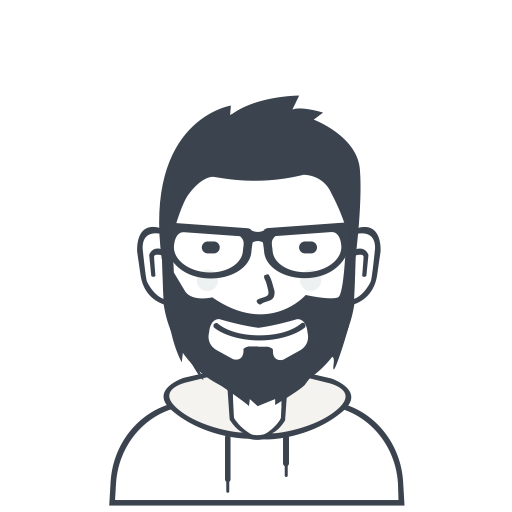
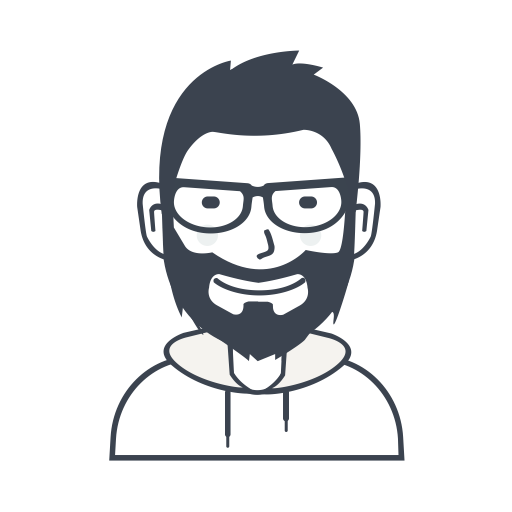
home screen mobile-tablet-desktop styling, character image vertical centering, scrap image deletion, special characters added

Changed region(s): [[0.1875, 0.0938, 0.8125, 1.0]]

diff --git a/public/styles.css b/public/styles.css
@@ -119,11 +119,23 @@ title-screen {
     height: 100vh;
 }
 
+.title-banner {
+    display: flex;
+    justify-content: space-around;
+    align-items: center;
+}
+
+.title-banner img {
+    height: 19%;
+    width: 19%;
+}
+
 h2 {
     text-align: center;
     font-family: 'Cinzel', serif;
     font-size: 35px;
     margin: 10px;
+    color: #F7DBA7;
 }
 
 h4 {
@@ -131,6 +143,7 @@ h4 {
     font-size: 20px;
     margin: 5px 60px;
     text-align: center;
+    color: #C57B57;
 }
 
 .blurb {
@@ -138,12 +151,17 @@ h4 {
     text-align: center;
     margin: 0px 20px;
     font-size: 18px;
+    color: white;
 }
 
 .character_choice {
     display: flex;
     flex-direction: column;
     align-items: center;
+}
+
+.character_choice img {
+    border-radius: 105px;
 }
 
 .characters {
@@ -153,7 +171,9 @@ h4 {
     width: 100%;
     justify-content: center;
     font-size: 18px;
-    text-shadow: 2px 2px rgba(30, 45, 47, .2);
+    /* text-shadow: 2px 2px rgba(30, 45, 47, .2); */
+    -webkit-text-stroke-color: #1E2D2F;
+        -webkit-text-stroke-width: 1px;
 }
 
 .characters img {
@@ -171,12 +191,14 @@ h4 {
 }
 
 .title-screen {
-    background-color: rgba(255, 255, 255, 0.9);
+    background-color: #1E2D2F;
+    /* background-color: rgba(255, 255, 255, 0.9); */
     /* width: 85vw; */
     height: 95vh;
     display: flex;
     flex-direction: column;
     justify-content: center;
+    color: white;
 }
 
 /* trivia component */
@@ -360,7 +382,7 @@ a {
 
     .title-screen {
         width: 80%;
-        box-shadow: 0px 0px 10px 5px rgba(30, 45, 47, 0.8);
+        box-shadow: 0px 0px 10px 5px #F7DBA7;
     }
 
     title-screen {
@@ -368,8 +390,13 @@ a {
         justify-content: center;
     }
 
+    .title-banner img {
+        height: 16%;
+        width: 16%;
+    }
+
     h2 {
-        font-size: 40px;
+        font-size: 42px;
     }
 
     h4 {
@@ -505,6 +532,16 @@ a {
 }
 
 @media only screen and (min-width: 1200px) {
+    
+    h2 {
+        font-size: 52pt;
+    }
+
+    .title-banner img {
+        height: 11%;
+        width: 11%;
+    }
+    
     .characters img {
         max-width: 200px;
         max-height: 200px;

diff --git a/public/app/title-screen/title-screen.html b/public/app/title-screen/title-screen.html
@@ -1,5 +1,9 @@
 <section class="title-screen">
-    <h2>Hops Academy</h2>
+    <section class="title-banner">
+      <img src="../../images/hops-logo-peach-hat.png"/>
+      <h2>Hops Academy</h2>
+      <img src="../../images/hops-logo-peach-hat-flipped.png"/>
+    </section>
     <section class="blurb">
         <p>Hops Academy, prove your worth while your tongue dances with delight! Choose your character and start downing that golden brown elixir of mischief! See if you’re able to answer simple trivia questions while the game simulates how drunk you are getting.</p>
     </section>

diff --git a/public/app/trivia-service.js b/public/app/trivia-service.js
@@ -63,7 +63,9 @@ function TriviaService($http, $location) {
                     .replace(/&Uuml;/g, "\Ü")
                     .replace(/&ouml;/g, "\ö")
                     .replace(/&ntilde;/g, "\ñ")
-                    .replace(/&aacute;/g, "\á");
+                    .replace(/&aacute;/g, "\á")
+                    .replace(/&Ocirc;/g, "\Ô");
+
             }
             self.question = {
                 question: self.fix(self.trivia.question),

diff --git a/public/app/game/stats/stats.html b/public/app/game/stats/stats.html
@@ -8,7 +8,7 @@
         <p class="num-display">{{$ctrl.user.tolerance}}</p>
     </section>
     <section desk-stat>
-        <img class="avatar" src="../../../images/hops-logo-peach-hat.png"/>
+        <img class="avatar" src="../../../images/hops-logo-peach-hat.png">
     </section>
     <section class="drunk-stat">
         <p class="stat-header">Drunkenness:</p>
